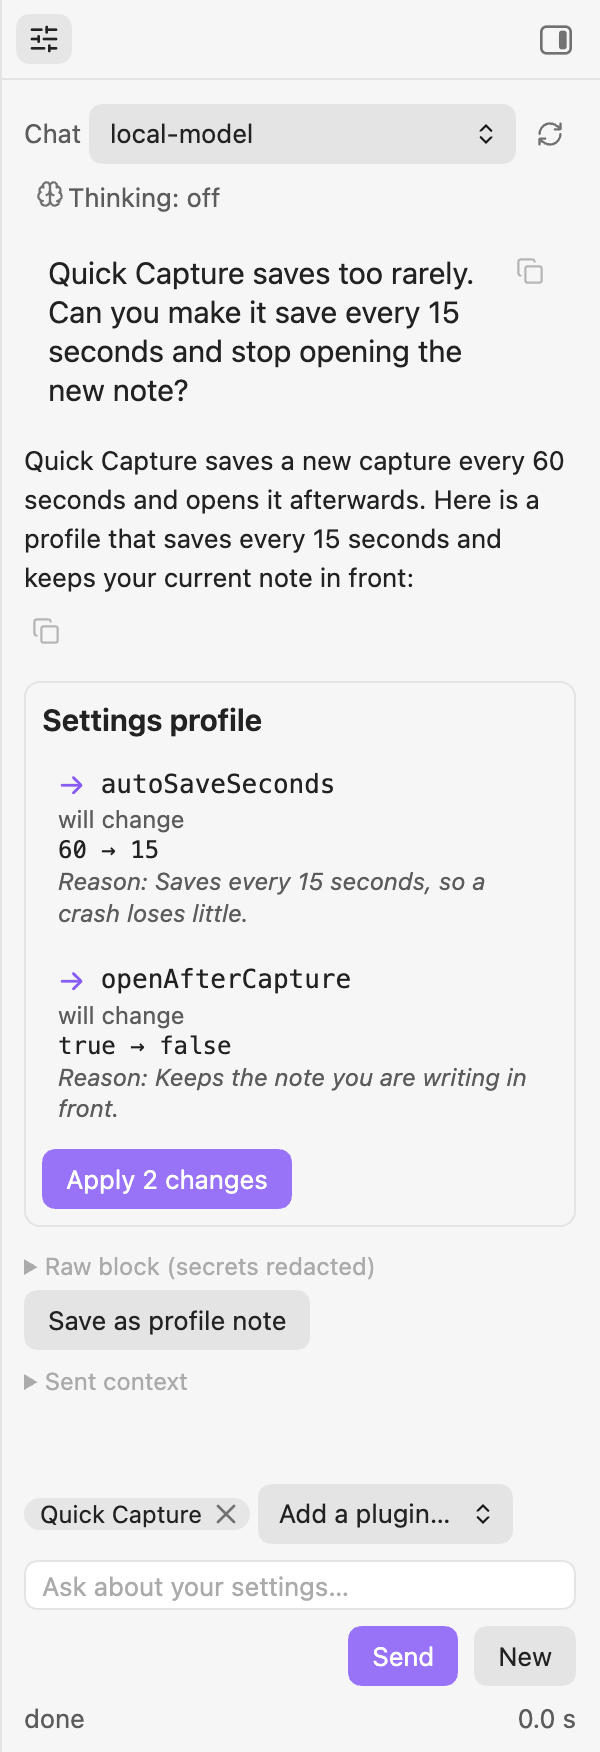
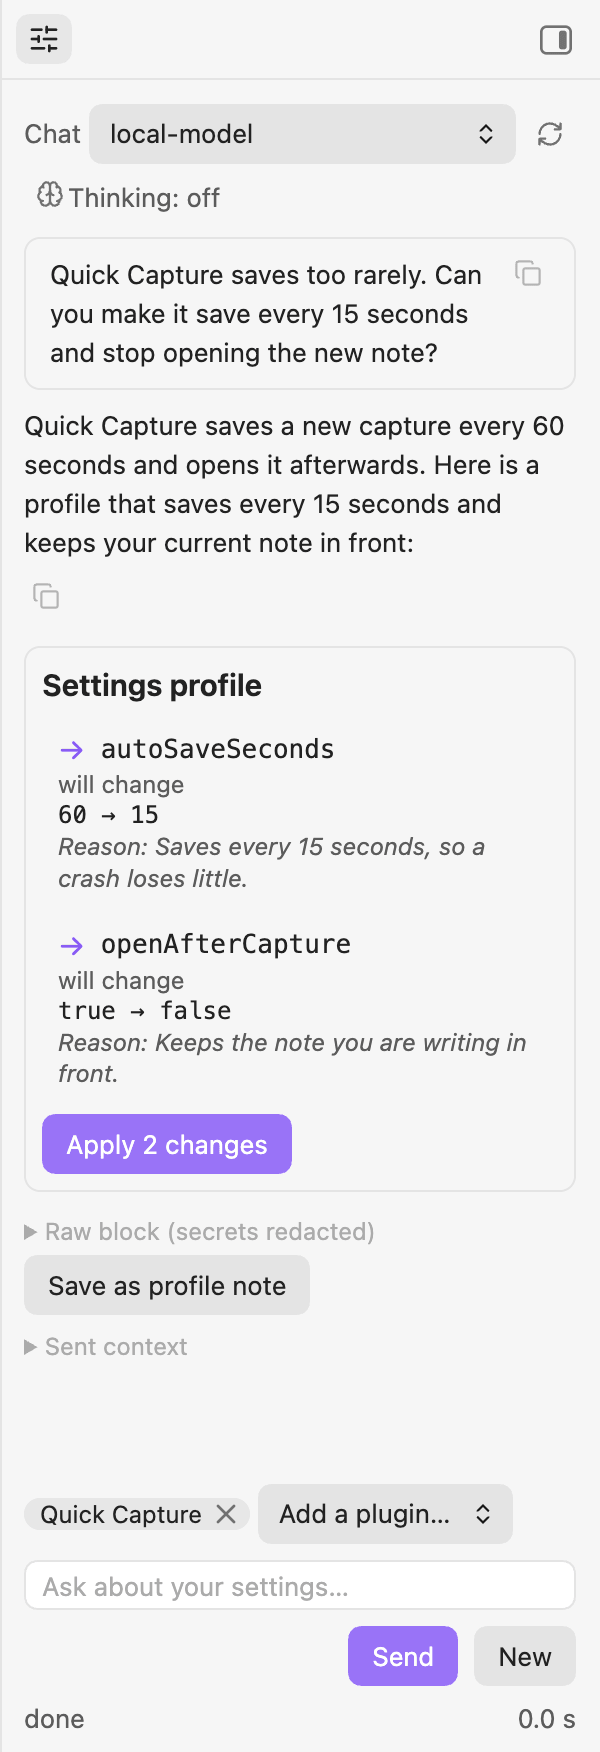
docs(chat): Linkschutz, Fehlerzeile und Tab-Haken nach Kit 0.70.0 nachgezogen, chat.png neu

diff --git a/docs/internal/architecture.md b/docs/internal/architecture.md
@@ -14,6 +14,6 @@ Der reine Kern liegt in `src/core/` (kein `obsidian`-Import, `npm run check:pure
 - `snapshot.ts` — Manifest-Typen, `hashText` (FNV-1a mit Längenpräfix), `restoreDecision()` (`restore`, `changed`, `unverified`).
 - `chat-context.ts`, `chat-ask.ts`, `profile-fence.ts`, `profile-note.ts`, `settings.ts` — Chat-Kontext mit Schwärzung und Block-Extraktion, `prepareAsk` (aus Verlauf, Plugin-Auswahl und Einstellungsdateien die Nachrichten einer Runde und den `SentContext` bauen; nur die letzte Nutzernachricht trägt den Kontext, welche früheren Runden dazugehören entscheidet `historyForModel` des Kits), Erkennung der `settings-profile`-Zäune für Extraktion und `stripProfileBlocks` aus einer Quelle, Profilnotiz und Roh-Anzeige mit Schwärzung, Einstellungen mit Feldprüfung. Schwärzung von Schlüsselwerten (`redactFields`, `isSecretPath`) und `neutralizeModelMarkdown` kommen aus code-kit (`redact`, `safe-markdown`, vendort unter `src/vendor/kit/`); ihre Golden-Tests liegen dort.
 
-Die Adapter in `src/obsidian/` sind dünn: `apply-service.ts` (ein Anwenden zur Zeit, Dialog, Bericht, Aufbewahrung), `snapshots.ts` (Ablage unter `<configDir>/plugins/settings-assistant/snapshots/`, `makePorts`), `config-io.ts` (Dateien nur über `app.vault.adapter`), `plugin-host.ts` (Plugin an/aus, „aktiv“ = geladen ODER gespeichert, schmales Interface auf das undokumentierte `app.plugins`), `profile-block.ts` (Codeblock-Prozessor), `apply-modal.ts`/`restore-modal.ts`/`check-rows-view.ts`, `chat-host.ts` (Ansicht `settings-assistant-chat`: baut `buildChatWindow` und `buildModelBar` des Kits; Verlauf und Plugin-Auswahl liegen als `ChatState` im Plugin, nur im Speicher, und überleben das Schließen der Ansicht; `send` ruft `prepareAsk`, legt den `SentContext` per `setMeta` an die Antwort und ruft `llm.complete`; die Modellzeile sperrt sich, solange eine Antwort im Verlauf läuft; Fehlertexte und Abbruch sind die des Kit-Fensters, bei HTTP-Fehlern mit der Begründung des Servers), `chat-answer.ts` (`afterAnswer`: Vorschlagsblöcke nur bei einer vollständigen Antwort, „Sent context“ auch an einer gescheiterten), `dom-safety.ts` (`stripActiveContent`, Linkschutz nach dem Rendern; das Kit-`domGuard` kappt keine Skript-Schemata in Links, der Ort der Funktion ist das Kit, befristet hier bis zur Kit-Task „Linkschutz in Modellantworten“; die Verbindung selbst, `createLlmConnection`, wird in `main.ts` erzeugt und trägt Auflösung, Parameter, Client, Fristen, Schwärzung und die Abschnitte Endpunkt und Anfrage der Einstellungen), `settings-tab.ts` (deklarativ über `getSettingDefinitions()`), `api.ts` (Anbieter-API v1).
+Die Adapter in `src/obsidian/` sind dünn: `apply-service.ts` (ein Anwenden zur Zeit, Dialog, Bericht, Aufbewahrung), `snapshots.ts` (Ablage unter `<configDir>/plugins/settings-assistant/snapshots/`, `makePorts`), `config-io.ts` (Dateien nur über `app.vault.adapter`), `plugin-host.ts` (Plugin an/aus, „aktiv“ = geladen ODER gespeichert, schmales Interface auf das undokumentierte `app.plugins`), `profile-block.ts` (Codeblock-Prozessor), `apply-modal.ts`/`restore-modal.ts`/`check-rows-view.ts`, `chat-host.ts` (Ansicht `settings-assistant-chat`: baut `buildChatWindow` und `buildModelBar` des Kits; Verlauf und Plugin-Auswahl liegen als `ChatState` im Plugin, nur im Speicher, und überleben das Schließen der Ansicht; `send` ruft `prepareAsk`, legt den `SentContext` per `setMeta` an die Antwort und ruft `llm.complete`; die Modellzeile sperrt sich über `running()` und `onRunChange` des Kit-Fensters und gibt sich über die Abmelde-Rückgabe des Kopfs frei, die Chips zeichnen sich über `refreshComposer()`; Fehlertexte und Abbruch sind die des Kit-Fensters, bei HTTP-Fehlern mit der Begründung des Servers; den Linkschutz trägt der `domGuard` des Kit-Fensters, seit Kit 0.70.0 und ohne eigenen Durchgang), `chat-answer.ts` (`afterAnswer`: Vorschlagsblöcke nur bei einer vollständigen Antwort, „Sent context“ auch an einer gescheiterten), die Verbindung selbst, `createLlmConnection`, wird in `main.ts` erzeugt und trägt Auflösung, Parameter, Client, Fristen, Schwärzung und die Abschnitte Endpunkt und Anfrage der Einstellungen), `settings-tab.ts` (deklarativ über `getSettingDefinitions()`), `api.ts` (Anbieter-API v1).
 
 Alle UI-Texte stehen in `src/i18n/strings.ts` (en + de; Englisch ist kanonisch und Rückfall, dass beide Wörterbücher dieselben Schlüssel tragen, prüft kein Test — beim Ergänzen beide Sprachen pflegen).

diff --git a/docs/troubleshooting.md b/docs/troubleshooting.md
@@ -76,7 +76,7 @@ Each entry starts with what you see — the wording is the plugin's own English 
 
 ## A red error line under the answer
 
-**Cause:** a chat request failed, and the line says how. **No endpoint reachable. Check the endpoint list in the settings — the test button says which one answers.** means no endpoint could be resolved. **No answer from the model for 600 s — it may still be loading or is stuck. Try again.** (the number is the wait) and **Could not reach the endpoint — server down, wrong address, or network/VPN not connected.** mean the server did not answer. An HTTP error names its status, for example **Chat path not found (HTTP 404) — check the endpoint address.** for a wrong address, or **Access denied (HTTP 401) — API key missing, invalid or expired.** for a missing key; the line then ends with **— server:** and the server's own reason in one line. **The conversation is too long for the model.**, **The answer was cut off before the first word — thinking used up the token limit.** and **Empty response from the model — check the endpoint and model in the settings.** mean the answer did not fit the context or the token budget, or nothing came back.
+**Cause:** a chat request failed, and the line says how. **No endpoint reachable. Check the endpoint list in the settings — the test button says which one answers.** means no endpoint could be resolved. **No answer from the model for 600 s — it may still be loading or is stuck. Try again.** (the number is the wait, in whole seconds) and **Could not reach the endpoint — server down, wrong address, or network/VPN not connected.** mean the server did not answer; for a network error the line adds the technical message in brackets, with keys and tokens masked and cut to one line. An HTTP error names its status, for example **Chat path not found (HTTP 404) — check the endpoint address.** for a wrong address, or **Access denied (HTTP 401) — API key missing, invalid or expired.** for a missing key; the line then ends with **— server:** and the server's own reason in one line. **The conversation is too long for the model.**, **The answer was cut off before the first word — thinking used up the token limit.** and **Empty response from the model — check the endpoint and model in the settings.** mean the answer did not fit the context or the token budget, or nothing came back.
 
 **Fix:** check the endpoint and the model of its row under **Settings → Settings Assistant**, and the details under **Request**. The row **Last request** shows what was sent and **deviation(s) this session** lists what the server did differently. **Send again** under the answer repeats the question once the cause is gone.
 

diff --git a/docs/howto-ask-the-chat.md b/docs/howto-ask-the-chat.md
@@ -27,7 +27,7 @@ Under each of your questions a fold-out **Sent context** shows the plugins, the 
 
 The answer streams in. The model's own reasoning, if the endpoint sends it, is open while it arrives and folds shut under **Thoughts** when the answer is done; a button next to it copies the thinking. A status line under the input says what the model is doing (thinking, writing, done) and, next to it, how long the answer took. Question and answer each have a copy button.
 
-If the request fails, a red line under the answer says why; with an HTTP error it ends with the server's own reason. **Send again** under the last failed answer asks the same question again. A failed or stopped round is not sent to the model with your next question. Because the answer comes from a model, it is treated as untrusted text: images and embeds are not loaded, they appear as plain text or code, and HTML is shown escaped. Links stay and need a click.
+If the request fails, a red line under the answer says why; with an HTTP error it ends with the server's own reason, and with a network error it adds the technical message in brackets (keys and tokens masked). **Send again** under the last failed answer asks the same question again. A failed or stopped round is not sent to the model with your next question. Because the answer comes from a model, it is treated as untrusted text: images and embeds are not loaded, they appear as plain text or code, and HTML is shown escaped. Links stay and need a click.
 
 A `settings-profile` block in the answer is drawn like a profile note: check rows, the model's reasons as `Reason: …`, and an apply button. The model knows a key only by its name, so it can invent keys (shown as **key not found in file**) and misjudge what a key does. The rows catch the first; you are the check for the second.
 

diff --git a/CHANGELOG.md b/CHANGELOG.md
@@ -6,7 +6,14 @@ All notable changes to this project are documented here. The format follows [Kee
 
 ### Changed
 
+- **Links in answers are checked by the shared chat window.** A link that could run a script or open a file (`javascript:`, `data:`, `vbscript:`, `file:`, `app:`) never works, and an `obsidian://` link loses its target; it still looks like a link, but a click does nothing (obsidian-kit 0.70.0; the plugin's own check is gone).
+- **The question looks like the answer.** It has the same type size as the answer (it was larger) and a thin border, so it stands out in a narrow sidebar (obsidian-kit 0.70.0).
+- **A network error names its technical reason.** The error line adds the message in brackets, with keys and tokens masked and cut to one line; a time-out names the seconds as a whole number.
 - The documentation now says what was measured on mobile: the chat was tried in Obsidian's mobile emulation on the desktop (controls reachable with a long history on a 390 × 844 and a 320 × 568 screen, no console errors, the key from the secret storage), not on a device. The on-screen keyboard, touch scrolling and the network path to an endpoint on your local network are still open.
+
+### Fixed
+
+- **The settings tab rebuilds every time it opens.** The hook that refreshes the snapshot list on opening was removed when the tab closed, so only the first opening showed an up-to-date list; it now stays until the plugin unloads.
 
 ## [0.9.0] — 2026-10-24
 
